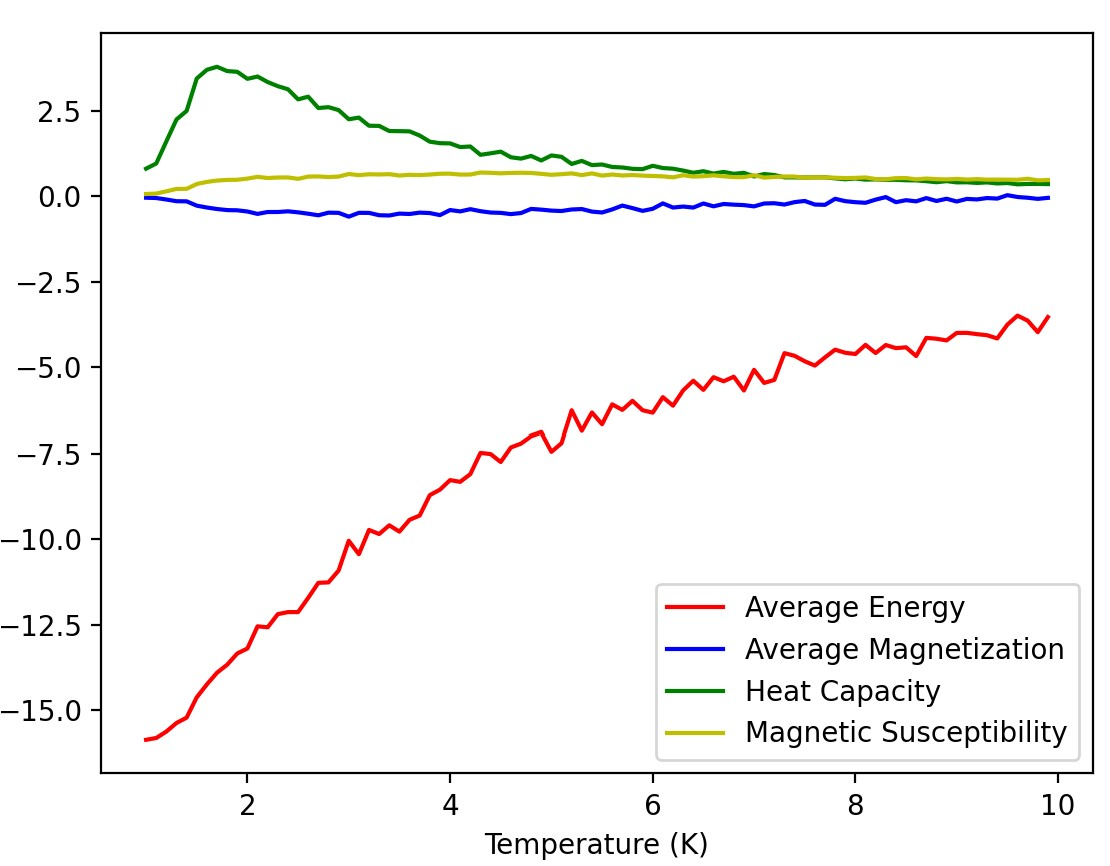
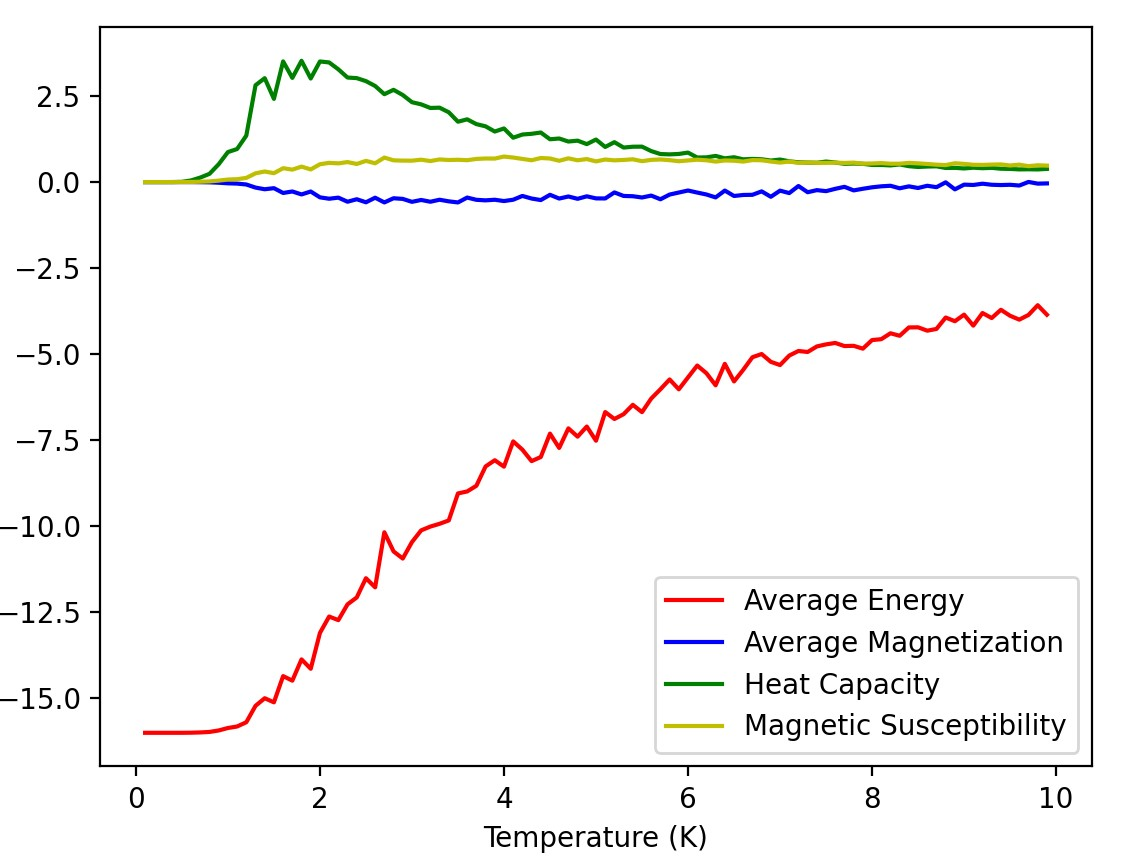
Modified the metropolis plot for efficiency and updated the documentation for more specific information

Changed region(s): [[0.0, 0.0312, 1.0, 0.9977], [0.1532, 0.0935, 0.1838, 0.1559], [0.2144, 0.7171, 0.245, 0.7483]]

diff --git a/montecarlo/metropolis.py b/montecarlo/metropolis.py
@@ -42,6 +42,7 @@ def sweep(state, mu=1.1, k=1, J=-2, T=1):
     states = []
     states.append(state)
     energies.append(spin_energy(J,mu,k,state))
+    compare_energy = energies[0]
     sweeper = state.copy()
     for i in range(len(sweeper)):
         if sweeper[i]==-1:
@@ -50,7 +51,7 @@ def sweep(state, mu=1.1, k=1, J=-2, T=1):
             sweeper[i]==-1
         energy_two = spin_energy(J,mu,k,sweeper)
         avg_eng = sum(energies)/len(energies)
-        if energy_two < energies[0]:
+        if energy_two < compare_energy:
             energies.append(energy_two)
             states.append(sweeper)
         else:
@@ -58,6 +59,7 @@ def sweep(state, mu=1.1, k=1, J=-2, T=1):
             if prob > random.random():
                 energies.append(energy_two)
                 states.append(sweeper)
+                compare_energy = energy_two
         sweeper = state.copy()
     for i in states:
         mags.append(magnetization(i))

diff --git a/docs/getting_started.rst b/docs/getting_started.rst
@@ -14,20 +14,85 @@ To install montecarlo, you will need an environment with the following packages:
 Once you have these packages installed, you can install montecarlo in the same environment using
 ::
 
+    git clone git@github.com:nrmanohar/montecarlo.git
+    cd montecarlo
     pip install -e .
 
-Background
-------------
+Theory
+-------
+
+Background and Physics
+````````````````````````
 .. math::
     \frac{H}{k} = -\frac{J}{k}\sum s_i s_{i+1}+\frac{\mu}{k}\sum s_i
 
 
-This is the equation of the 1D spin lattice hamiltonian. This can be used to compute the energy levels of a spin lattice structure, and by extension the probability of it occuring using the Boltzmann distribution. However, these structures may have more important charactaristics, like magnetization. Using that, we can compute the average energy and average magnetization of all states of a certain size, and from there determine the heat capacity and magnetic susceptibility. Magnetization can be written as such
+This is the equation of the 1D spin lattice hamiltonian, where s is the spin of each state 
+on the lattice state. This can be used to compute the energy levels of a spin lattice structure, 
+and by extension the probability of it occuring using the Boltzmann distribution. However, these 
+structures have other important charactaristics, like magnetization. Using that, we can compute 
+the average energy and average magnetization of all states of a certain size, and from there 
+determine the heat capacity and magnetic susceptibility. Magnetization can be written as such
 
 .. math::
     M = \sum s_i
 
-And the heat capacity can be calculated using expectation values of energy, and magnetic susceptibility using expectation values of magnetization. This package can calculates both values exactly, as well as approximate it using the montecarlo metropolis method.
+And the relative probability can be written as the following
+
+.. math::
+    P(\alpha) = e^{-E(\alpha)/{kT}}
+
+However, this is unnormalized, and thus will give incorrect values. For discrete energies, the normalization factor is
+
+.. math::
+    Z = \sum e^{-E(\alpha)/{kT}}
+
+Similarly, for a continuous energy distribution, the normalization factor is
+
+.. math::
+    Z = \int e^{-E(\alpha)/{kT}}
+
+Which makes the actual probability of each state
+
+.. math::
+    P(\alpha) = \frac{1}{Z} e^{-E(\alpha)/{kT}}
+
+The heat capacity can be calculated using expectation values of energy as follows.
+
+.. math::
+    C = \frac{\langle E^2 \rangle - \langle E \rangle^2}{kT^2}
+
+where
+
+.. math::
+    \langle E\rangle = \sum P(\alpha)E(\alpha)
+
+Magnetic susceptibility can be calculated as follows, in a very similar manner to heat capacity
+
+.. math::
+    \chi =\frac{\langle M^2 \rangle - \langle M \rangle^2}{kT}
+
+
+This package can calculate all these values exactly, using the formulas listed above.
+
+Montecarlo and Metropolis
+``````````````````````````
+However, calculating these values precisely is computationaly taxing, so we can approximate 
+using the montecarlo method. Essentially, the goal is to use a random lattice to approximate 
+the total energy distribution. However, this doesn't include probabilities, and so it wouldn't 
+generate a good plot. The key was the phase transition probability. 
+
+.. math::
+    W(\alpha\rightarrow \beta) = e^{-(E(\beta)-E(\alpha))/kT}
+
+The key is when to keep a state and it's associated energy, and when not to, and when to 
+use that energy to compare other energies. The tester lattice is a random lattice. Then it'll 
+sweep through each lattice site and flip it's spin and calculate it's energy. If the energy is 
+lower than the energy of the comparison, it's more probable, and so the state will be kept. If 
+the state has a higher energy, we use the comparison used above, which will generate a number 
+between zero and one, and then compare it to a random number between zero and one. If the probabilty 
+of the phase change is higher than the generated random number, then we keep that state and use that 
+state as the reference energy to compare to.
 
 Examples
 ------------
@@ -65,6 +130,7 @@ which generates the output
   :alt: Ising plot
 
 However, we can also simulate a simular plot using the metropolis sampling. The default metro_plot() function generates a plot similar to the default generate_plot() method. Continuing from the previous code block
+(note, the outputs won't be exactly the same)
 
 .. code-block:: python
 
@@ -76,7 +142,6 @@ generates an output similar to
   :width: 400
   :alt: Metro plot
 
-(note, the outputs won't be exactly the same)
 As you can see, this is an approximation. We can make this approximation better by increasing the number of sweeps we include.
 
 .. code-block:: python
@@ -85,7 +150,7 @@ As you can see, this is an approximation. We can make this approximation better 
 
 generates the output
 
-.. image:: Plot3.jpg
+.. image:: Plot3.jpeg
   :width: 400
   :alt: Metro plot 2
 

diff --git a/docs/api.rst b/docs/api.rst
@@ -1,5 +1,5 @@
-API Documentation
-=================
+Files
+======
 
 .. autosummary::
    :toctree: autosummary
@@ -7,15 +7,18 @@ API Documentation
    montecarlo.hamiltonian
    montecarlo.metropolis
 
+API Documentation
+=================
+
 .. currentmodule:: montecarlo 
 
 .. autoclass:: Hamiltonian 
    :members:
 
-.. autofunction:: magnetization
-
 .. autoclass:: spin_config_1D
    :members:
+
+.. autofunction:: magnetization
 
 .. autofunction:: spin_energy
 

diff --git a/docs/index.rst b/docs/index.rst
@@ -7,6 +7,9 @@ Welcome to montecarlo's documentation!
 =========================================================
 montecarlo is a Python package designed to help energy calculations for 1D spin lattices. Start by reading the getting started page!
 
+.. automodule:: montecarlo
+    :members:
+
 .. toctree::
    :maxdepth: 3
    :caption: Contents:
